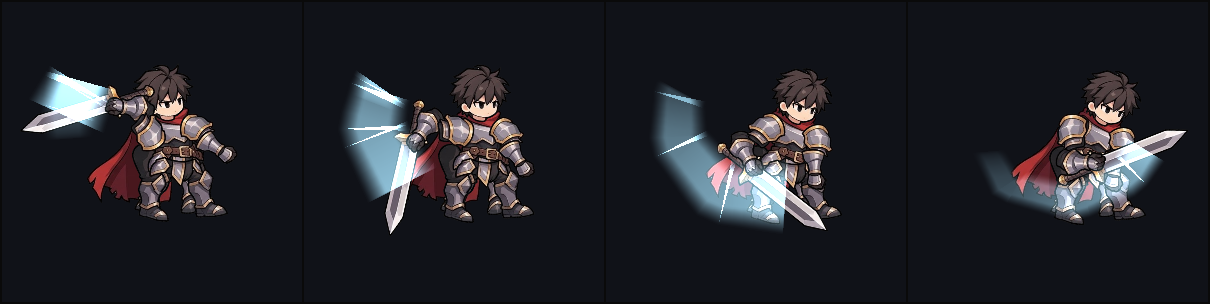
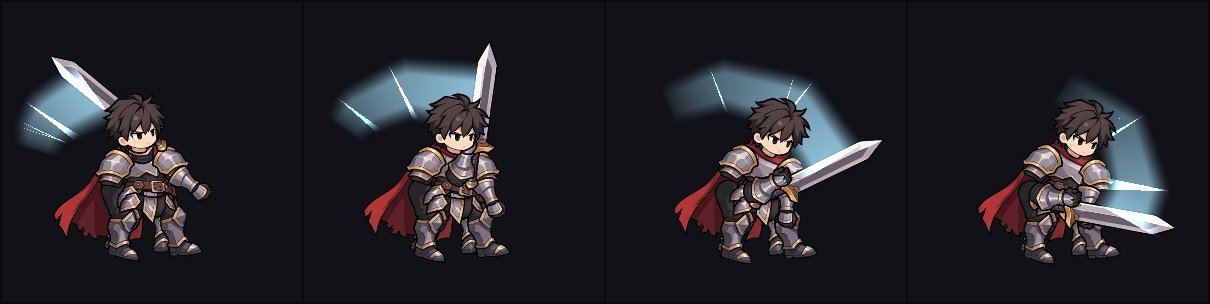
fix(samples): knight slash is a real overhead chop
The arm winds up back over the head and cuts forward over the top and down in
front (it used to loop back through the body). Shoulder plates stay on the
torso, the elbow sits under the plate so no gap opens, and the head draws over
the raised sword arm. README trail demo draws below the head (slot/place).

diff --git a/scripts/make-sample-characters.ts b/scripts/make-sample-characters.ts
@@ -26,14 +26,15 @@ const KNIGHT: CharDef = {
     { name: "head", parent: "torso", x: 4, y: 222 },
     { name: "cape", parent: "torso", x: -30, y: 200 },
     { name: "arm_r", parent: "torso", x: -52, y: 205 },
-    { name: "forearm_r", parent: "arm_r", x: -78, y: 160 },
+    // elbow tucked under the pauldron: the gauntlet is the whole visible arm, so no gap opens when it swings
+    { name: "forearm_r", parent: "arm_r", x: -60, y: 186 },
     { name: "hand_r", parent: "forearm_r", x: -96, y: 118 },
     { name: "sword", parent: "hand_r", x: -96, y: 118 },
     { name: "grip", parent: "sword", x: -96, y: 118, color: ANCHOR },
     { name: "blade_mid", parent: "sword", x: 35, y: 53, color: ANCHOR },
     { name: "sword_tip", parent: "sword", x: 133, y: 5, color: ANCHOR },
     { name: "arm_l", parent: "torso", x: 56, y: 200 },
-    { name: "forearm_l", parent: "arm_l", x: 74, y: 160 },
+    { name: "forearm_l", parent: "arm_l", x: 64, y: 182 },
     { name: "leg_r", parent: "hip", x: -30, y: 110 },
     { name: "shin_r", parent: "leg_r", x: -42, y: 60 },
     { name: "leg_l", parent: "hip", x: 30, y: 110 },
@@ -49,12 +50,14 @@ const KNIGHT: CharDef = {
     { part: "crotch", bone: "hip", x: 2, y: 130 },
     { part: "torso", bone: "torso", x: 2, y: 192 },
     { part: "tasset", bone: "hip", x: 4, y: 112 },
-    { part: "pauldron_l", bone: "arm_l", x: 62, y: 200 },
+    { part: "pauldron_l", bone: "torso", x: 62, y: 200 },
     { part: "bracer_l", bone: "forearm_l", x: 80, y: 140 },
-    { part: "head", bone: "head", x: 6, y: 294 },
     { part: "sword", bone: "sword", x: -10, y: 75, rotation: -26 },
     { part: "gauntlet_r", bone: "forearm_r", x: -84, y: 140 },
-    { part: "pauldron_r", bone: "arm_r", x: -58, y: 205 },
+    // the head draws over the sword arm, so a raised arm passes behind it
+    { part: "head", bone: "head", x: 6, y: 294 },
+    // shoulder plates stay on the torso; only the arm under them swings
+    { part: "pauldron_r", bone: "torso", x: -58, y: 205 },
   ],
   animations: {
     idle: {
@@ -65,14 +68,15 @@ const KNIGHT: CharDef = {
       arm_r: { rotate: [[0, 0], [0.6, 3], [1.2, 0]] },
       arm_l: { rotate: [[0, 0], [0.6, -3], [1.2, 0]] },
     },
-    // overhead slash: the sword arm winds up behind the head and cuts down through a wide arc
+    // overhead chop: the arm winds up back over the head, then cuts forward over the top and down in front.
+    // Steps stay under 180° (3.8 interpolates rotations the short way round), ending at -360 = rest.
     attack: {
       hip: { translate: [[0, 0, 0], [0.28, -8, 2], [0.42, 18, -6], [0.8, 0, 0]] },
       torso: { rotate: [[0, 0], [0.28, 10], [0.42, -12], [0.8, 0]] },
       head: { rotate: [[0, 0], [0.28, 6], [0.42, -6], [0.8, 0]] },
-      // the slash key is split so no step exceeds 180° (3.8 interpolates rotations the short way round)
-      arm_r: { rotate: [[0, 0], [0.28, -150, "linear"], [0.35, -55, "linear"], [0.42, 45], [0.8, 0]] },
-      forearm_r: { rotate: [[0, 0], [0.28, -25], [0.42, 15], [0.8, 0]] },
+      arm_r: { rotate: [[0, 0], [0.28, -150, "linear"], [0.35, -232, "linear"], [0.42, -310], [0.8, -360]] },
+      forearm_r: { rotate: [[0, 0], [0.28, -15], [0.42, 8], [0.8, 0]] },
+      hand_r: { rotate: [[0, 0], [0.28, 0], [0.42, -30], [0.8, 0]] },
       arm_l: { rotate: [[0, 0], [0.28, 20], [0.42, -25], [0.8, 0]] },
       cape: { rotate: [[0, 0], [0.28, -6], [0.42, 12], [0.8, 0]] },
       leg_r: { rotate: [[0, 0], [0.42, -10], [0.8, 0]] },

diff --git a/scripts/make-character-media.ts b/scripts/make-character-media.ts
@@ -11,17 +11,17 @@ interface Shot { out: string; character: string; effect: unknown; attach: Attach
 const SHOTS: Shot[] = [
   {
     // overhead slash: a blade-wide ribbon in trail mode, with sparks shed from the tip
-    out: "knight-sword-trail.png", character: "knight", frames: 4, times: [0.3, 0.34, 0.38, 0.44],
+    out: "knight-sword-trail.png", character: "knight", frames: 4, times: [0.31, 0.35, 0.39, 0.44],
     effect: {
       name: "sword_trail", loop: true,
       emitters: [
         {
           name: "slash", simulationSpace: "world", blend: "additive", emission: { rate: 0 },
-          ribbon: { enabled: true, length: 0.12, segments: 24, width: 190, widthOverLength: [[0, 1], [1, 0.6]], color: "#a8e8ff", alpha: 0.75 },
+          ribbon: { enabled: true, length: 0.1, segments: 24, width: 170, widthOverLength: [[0, 1], [1, 0.6]], color: "#a8e8ff", alpha: 0.75 },
         },
       ],
     },
-    attach: { bone: "blade_mid", animation: "attack", mode: "trail" },
+    attach: { bone: "blade_mid", animation: "attack", mode: "trail", slot: "head", place: "below" },
   },
   {
     out: "wizard-orb-magic.png", character: "wizard", frames: 4,
